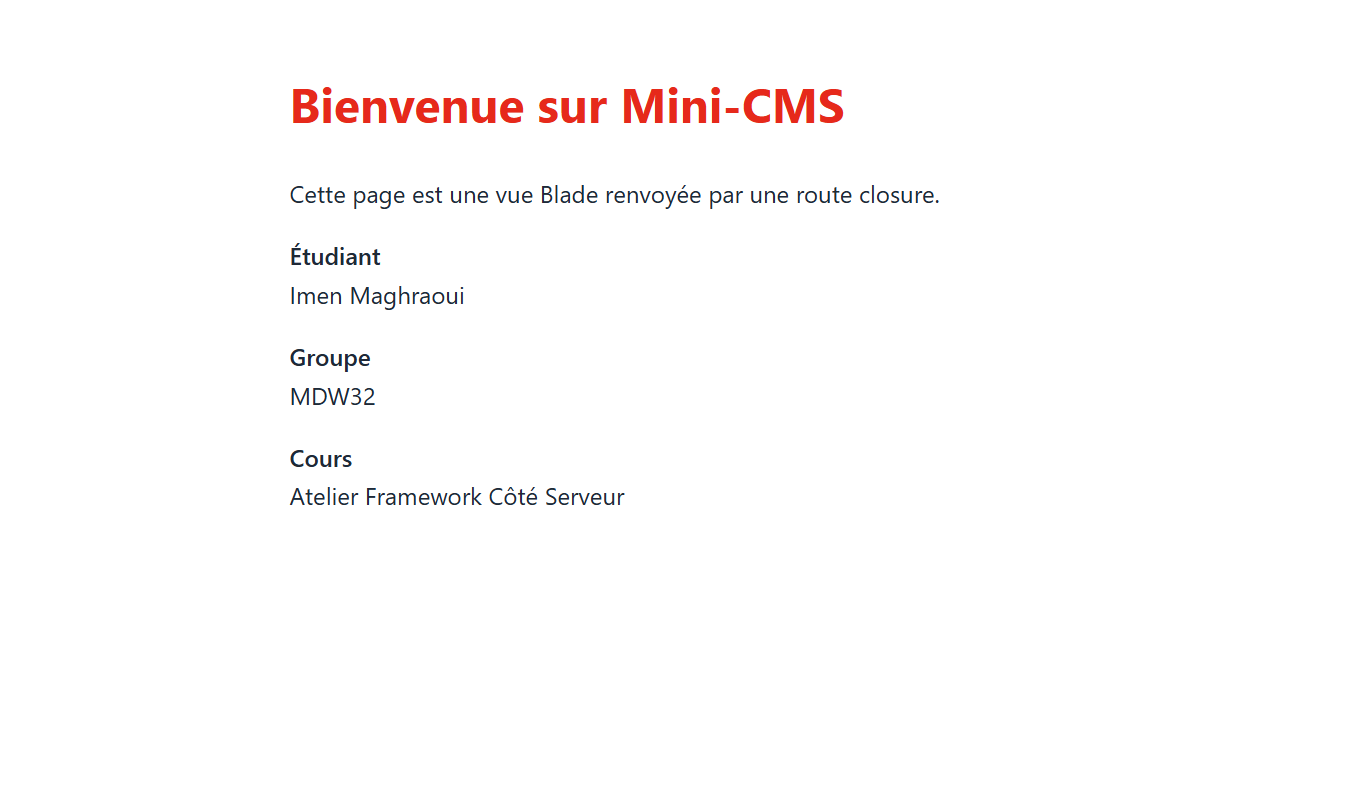
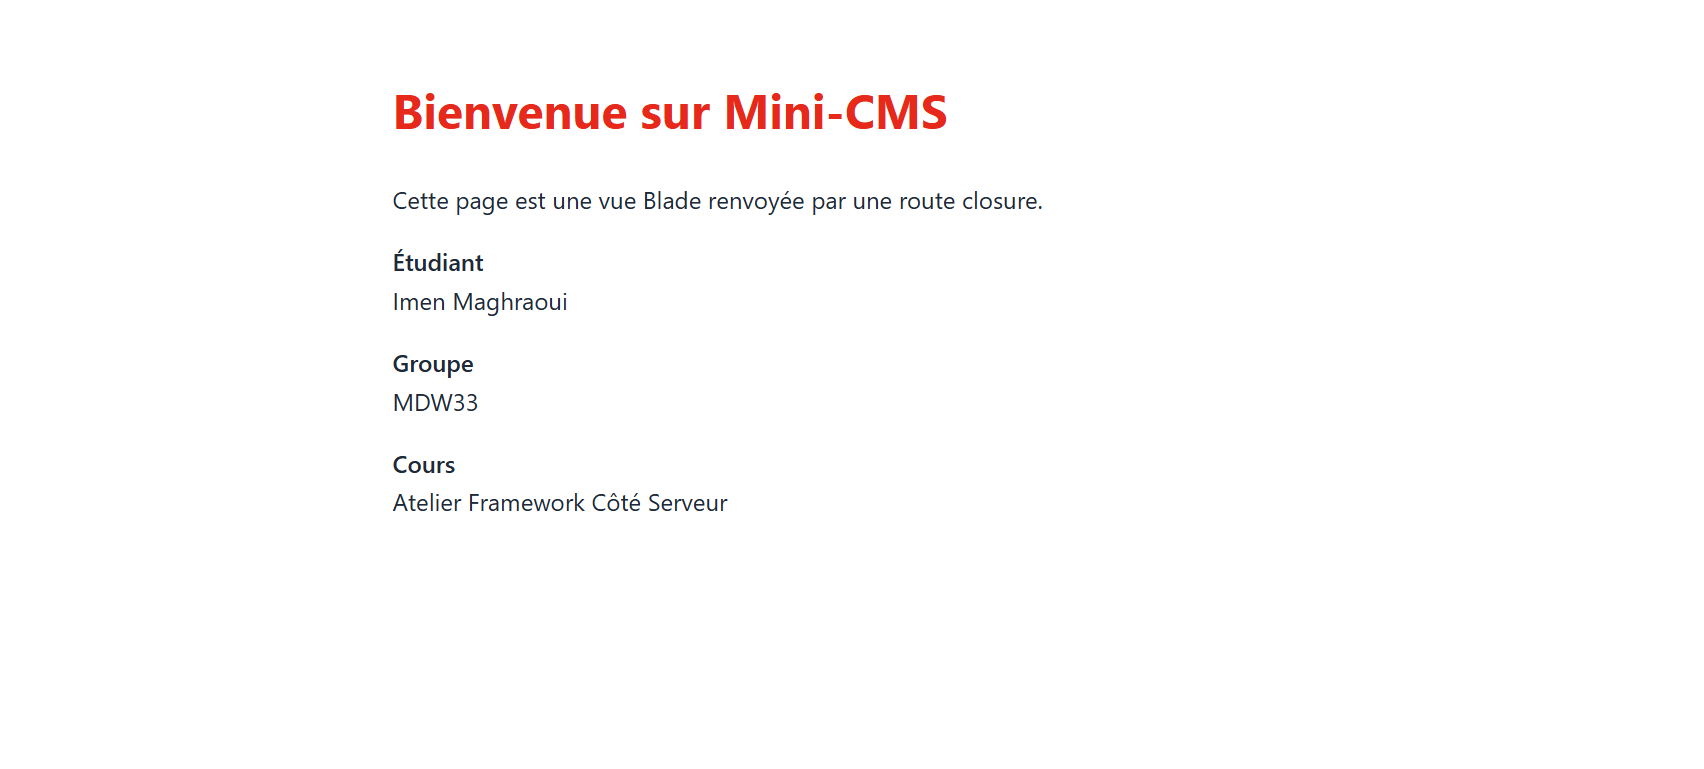
Deplacer les pages vers PageController

diff --git a/mini-cms/routes/web.php b/mini-cms/routes/web.php
@@ -1,27 +1,15 @@
 <?php
 
+use App\Http\Controllers\PageController;
 use Illuminate\Support\Facades\Route;
 
-Route::get('/', function () {
-    return view('welcome');
-});
+Route::get('/', [PageController::class, 'home']);
 
-Route::get('/bonjour', function () {
-    return 'Bonjour MDW3 ! Voici ma première route Laravel 13.';
-});
-
-Route::get('/bonjour-court', fn () => 'Même résultat, écrit avec une fonction fléchée.');
-
-Route::get('/bienvenue', function () {
-    return view('bienvenue', [
-        'etudiant' => 'Imen Maghraoui',
-        'groupe' => 'MDW32',
-        'cours' => 'Atelier Framework Côté Serveur',
-    ]);
-});
-
-Route::get('/version', fn () => 'Laravel ' . app()->version() . ' - PHP ' . PHP_VERSION);
+Route::get('/a-propos', [PageController::class, 'about']);
 
 Route::get('/heure', function () {
-    return view('heure', ['maintenant' => now()]);
+    return view('heure', [
+        'heure' => now()->format('H:i'),
+        'date' => now()->format('d/m/Y'),
+    ]);
 });

diff --git a/mini-cms/resources/views/a-propos.blade.php b/mini-cms/resources/views/a-propos.blade.php
@@ -1,0 +1,23 @@
+<!DOCTYPE html>
+<html lang="fr">
+<head>
+    <meta charset="UTF-8">
+    <meta name="viewport" content="width=device-width, initial-scale=1.0">
+    <title>À propos - Mini-CMS</title>
+    <style>
+        body { font-family: system-ui, sans-serif; max-width: 40rem; margin: 3rem auto; padding: 0 1rem; color: #1f2937; line-height: 1.6; }
+        h1 { color: #e6291b; }
+    </style>
+</head>
+<body>
+    <h1>À propos de Mini-CMS</h1>
+    <p>Mini-CMS est le projet fil rouge de l'Atelier Framework Côté Serveur (Laravel 13).</p>
+    <p>Auteur : {{ $auteur }}</p>
+    <p>Groupe : {{ $groupe }}</p>
+    <p>
+        <a href="/">Accueil</a> |
+        <a href="/bienvenue">Bienvenue</a> |
+        <a href="/heure">Heure</a>
+    </p>
+</body>
+</html>

diff --git a/mini-cms/app/Http/Controllers/PageController.php b/mini-cms/app/Http/Controllers/PageController.php
@@ -1,0 +1,19 @@
+<?php
+
+namespace App\Http\Controllers;
+
+class PageController extends Controller
+{
+    public function home()
+    {
+        return view('welcome');
+    }
+
+    public function about()
+    {
+        return view('a-propos', [
+            'auteur' => 'Imen Maghraoui',
+            'groupe' => 'MDW33',
+        ]);
+    }
+}
